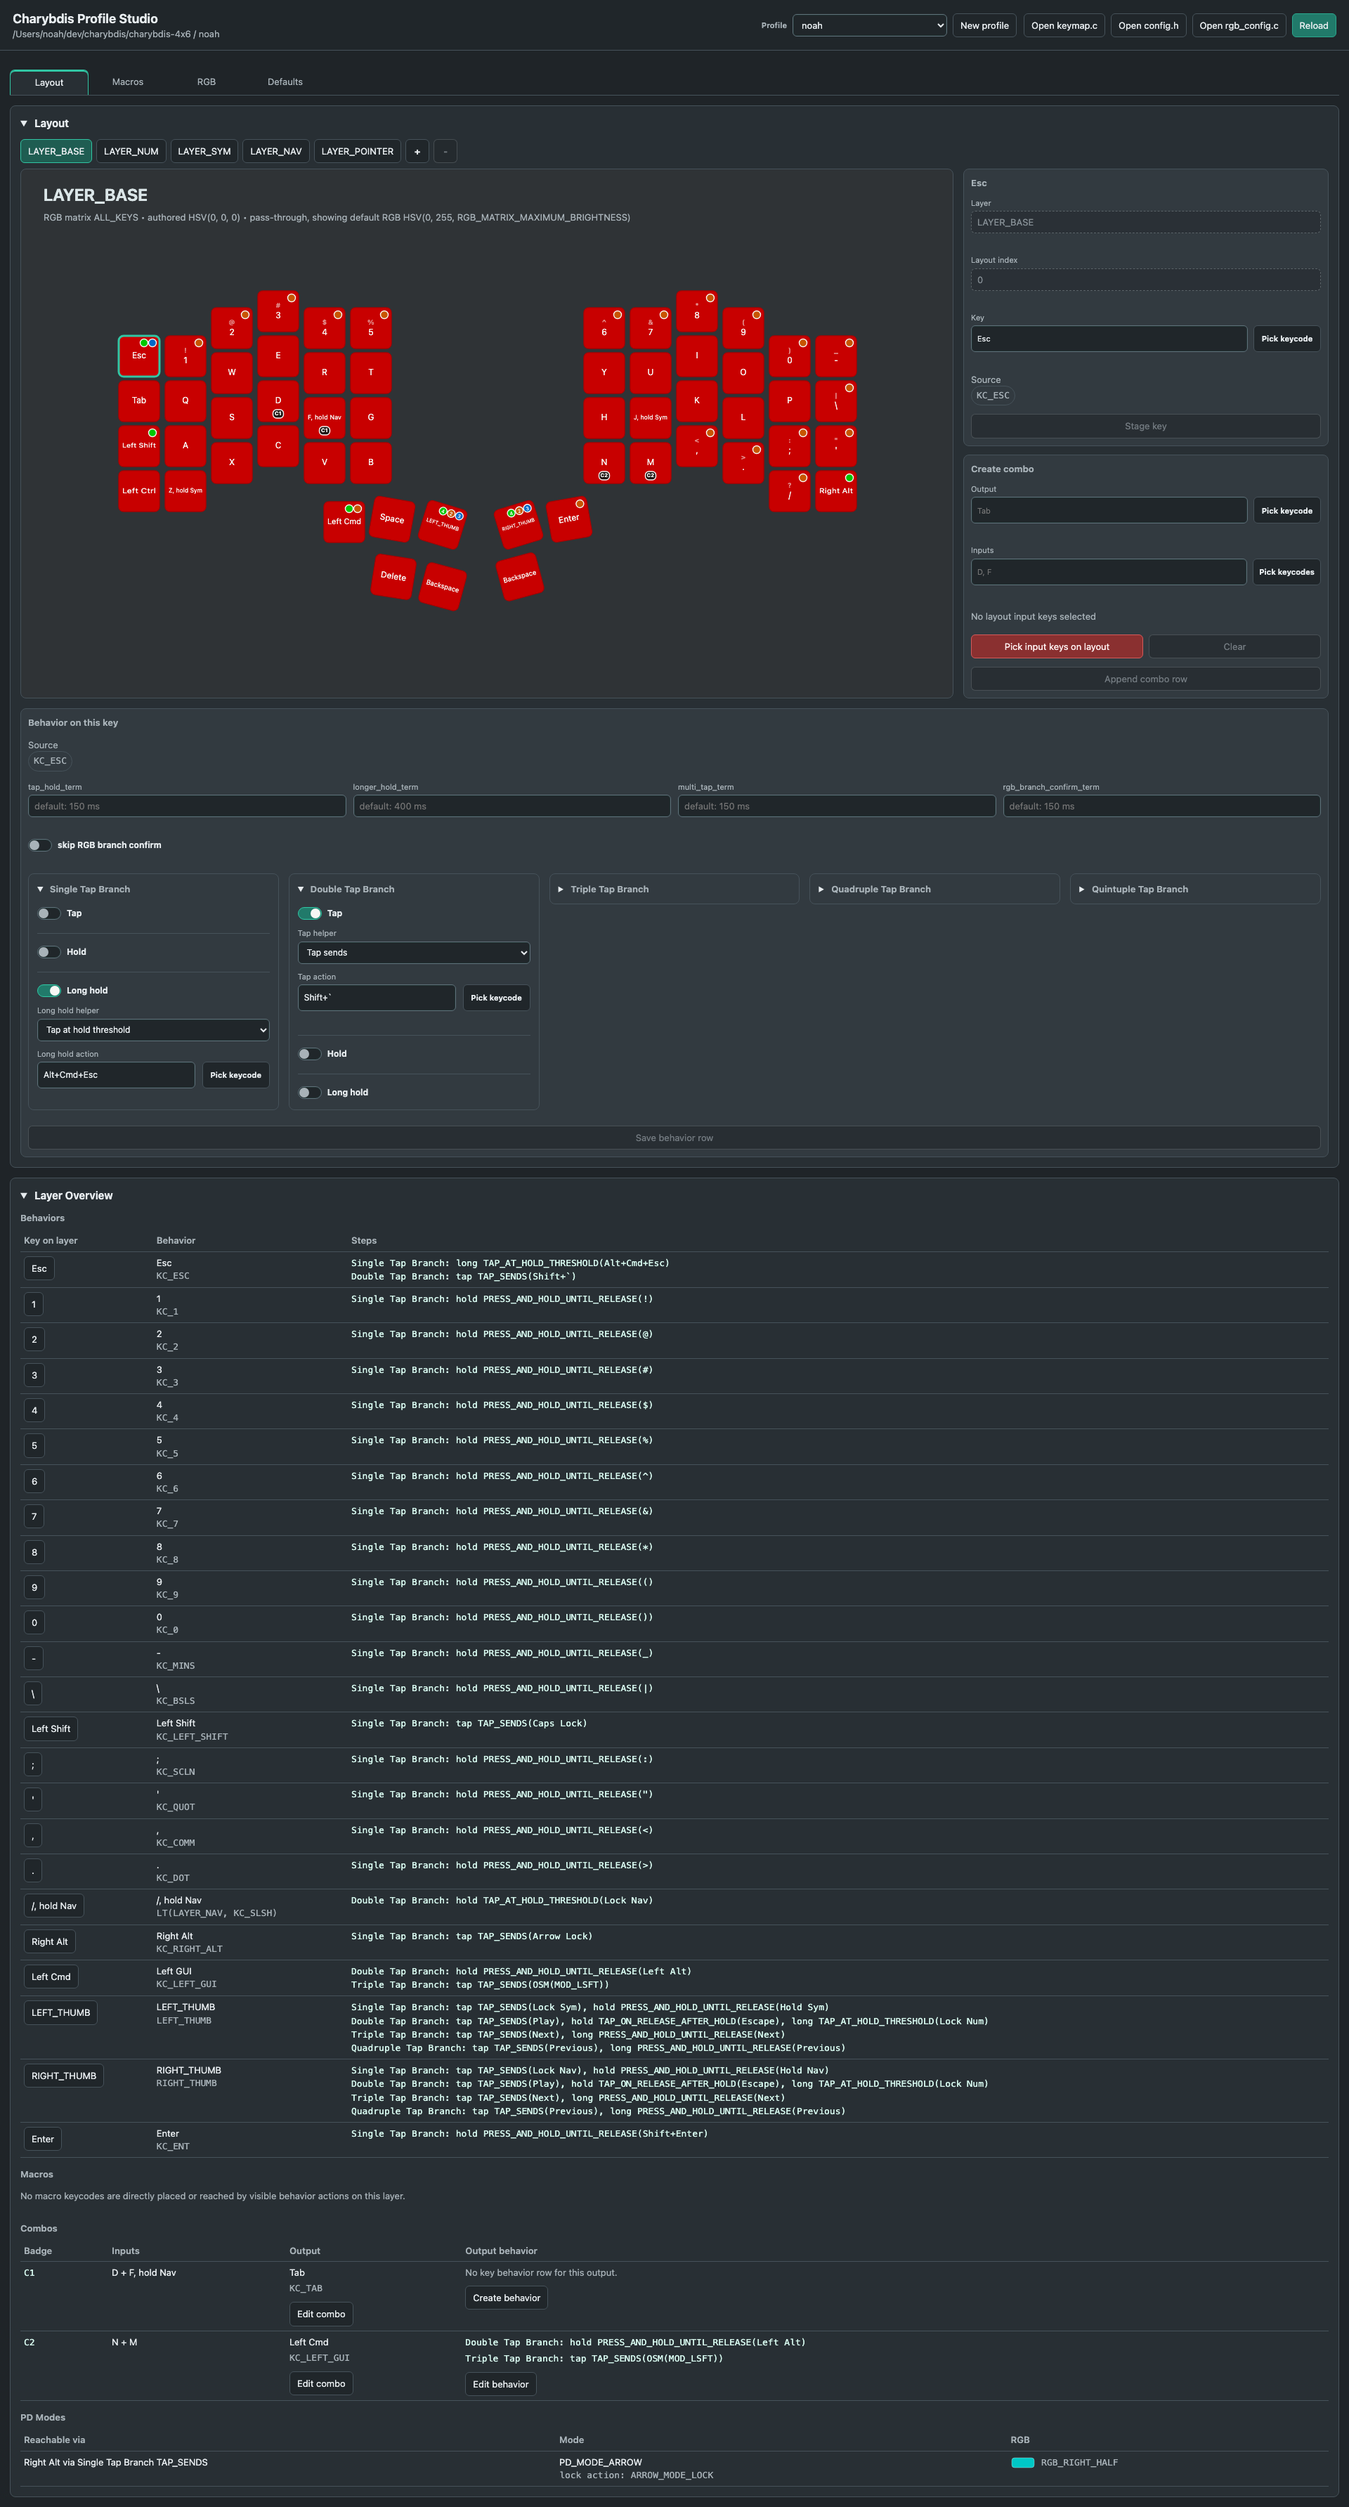
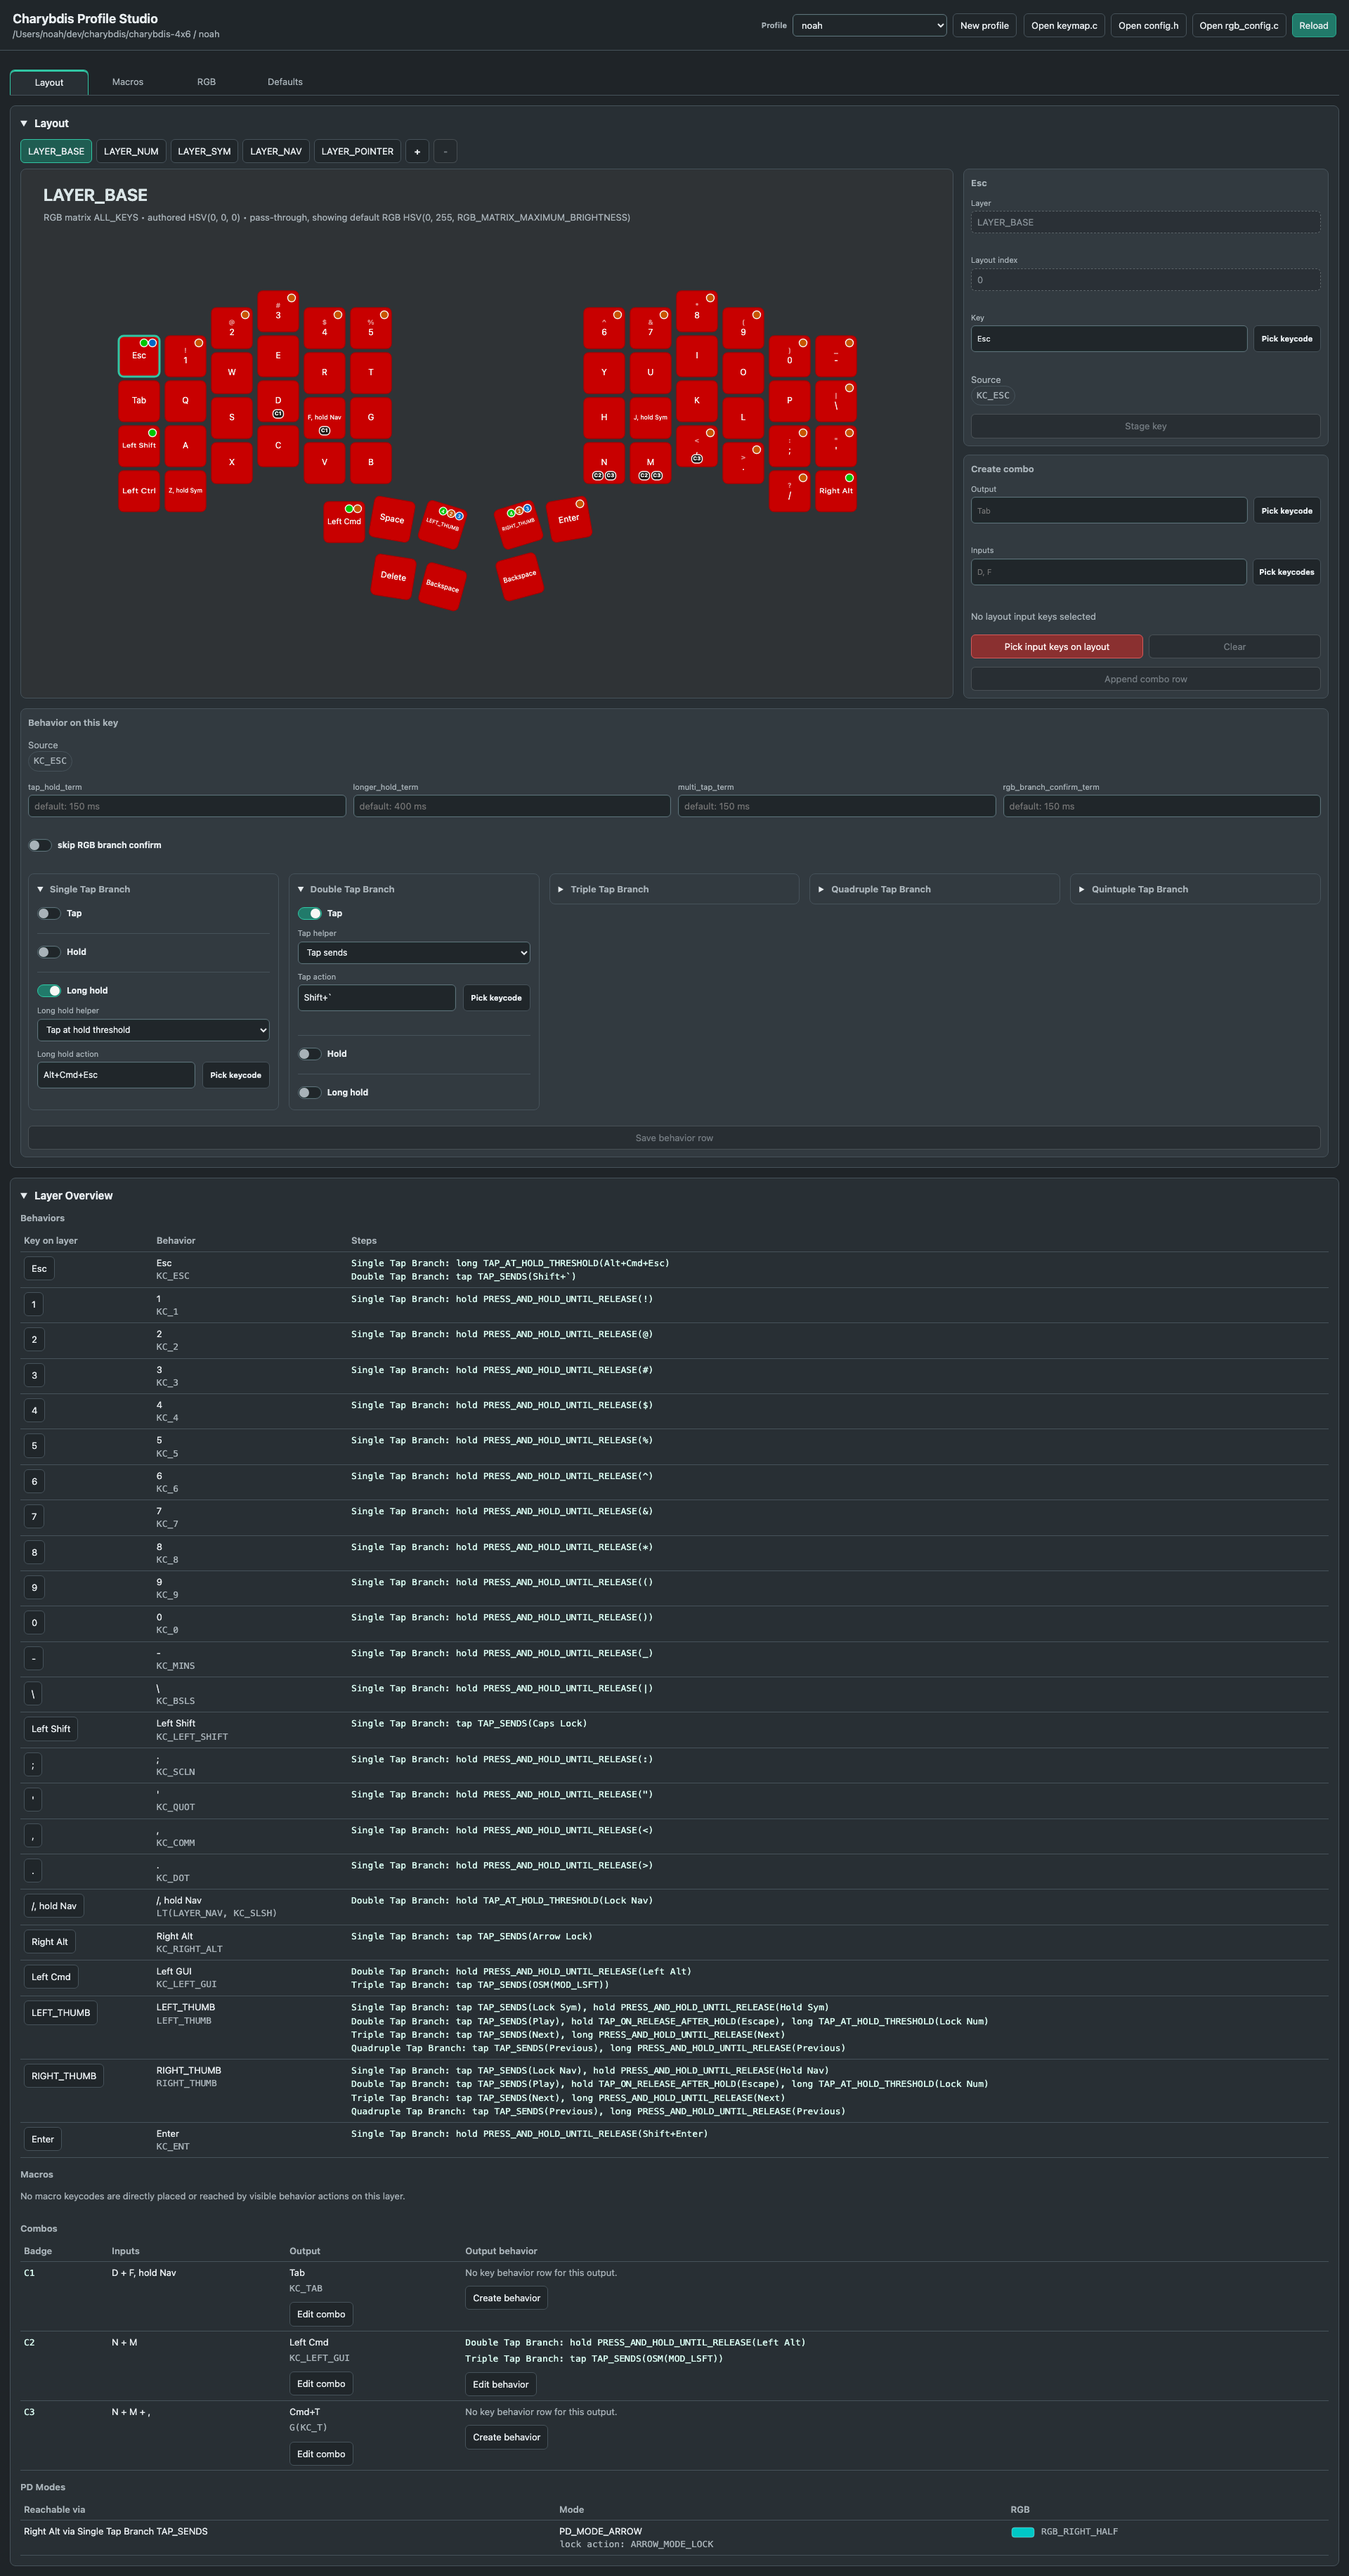
feat: add new combo C3 and update related documentation
- Introduced a new combo C3 on layers LAYER_BASE and LAYER_POINTER.
- Updated SVG files to reflect the addition of combo C3 in the visual representations.
- Modified keymap.c to include new combo definitions for C3.
- Enhanced the layout combo functionality in extension.js to differentiate between auto-matched and explicit combos.
- Added assertions in check-key-behavior-coverage.js to ensure new functionality is covered by tests.

diff --git a/tools/charybdis-profile-studio/extension.js b/tools/charybdis-profile-studio/extension.js
@@ -5511,6 +5511,7 @@ function getClientScript() {
     let layoutComboOutput = "";
     let layoutComboInputs = "";
     let activeLayoutComboOriginal = undefined;
+    let activeLayoutComboOriginalSource = "";
     let activeMacroKeycode = "";
     let macroDrafts = {};
     let macroRecording = false;
@@ -6228,7 +6229,7 @@ function getClientScript() {
             layoutComboSelection = [];
             layoutComboOutput = "";
             layoutComboInputs = "";
-            activeLayoutComboOriginal = undefined;
+            clearLayoutComboOriginal();
             syncRgbLayerOwnerToActiveLayer();
             lastLayoutKeyClick = { index: undefined, time: 0 };
             render();
@@ -6302,7 +6303,7 @@ function getClientScript() {
             layoutComboSelection = [];
             layoutComboOutput = "";
             layoutComboInputs = "";
-            activeLayoutComboOriginal = undefined;
+            clearLayoutComboOriginal();
             render();
             commitLocalHistory(before);
         } else if (action === "toggleRgbLed") {
@@ -6473,12 +6474,13 @@ function getClientScript() {
         } else if (action === "addLayoutCombo") {
             const payload = readComboBuilder(target);
             const original = activeLayoutComboOriginal;
+            const originalSource = activeLayoutComboOriginalSource;
             layoutComboPicking = false;
             layoutComboSelection = [];
             layoutComboOutput = "";
             layoutComboInputs = "";
-            activeLayoutComboOriginal = undefined;
-            post(original ? { type: "saveCombo", ...payload, originalOutput: original.output, originalInputs: original.inputs.join(", ") } : { type: "addCombo", ...payload });
+            clearLayoutComboOriginal();
+            post(layoutComboShouldSaveOriginal(original, originalSource, payload.inputs) ? { type: "saveCombo", ...payload, originalOutput: original.output, originalInputs: original.inputs.join(", ") } : { type: "addCombo", ...payload });
         } else if (action === "applyLayoutChanges") {
             const groups = pendingLayoutChangeGroups();
             const stagedEditLayer = groups.find((group) => pendingLayerAdd(group.layer));
@@ -6543,7 +6545,7 @@ function getClientScript() {
                 layoutComboSelection = [];
                 layoutComboOutput = "";
                 layoutComboInputs = "";
-                activeLayoutComboOriginal = undefined;
+                clearLayoutComboOriginal();
                 lastLayoutKeyClick = { index: undefined, time: 0 };
             }
             rgbBuilderColor = undefined;
@@ -6674,7 +6676,7 @@ function getClientScript() {
         const layer = currentLayer();
         if (!layer) {
             layoutComboSelection = [];
-            activeLayoutComboOriginal = undefined;
+            clearLayoutComboOriginal();
             return;
         }
         const valid = new Set(layer.positions.map((position) => position.layoutIndex));
@@ -6685,7 +6687,7 @@ function getClientScript() {
             return true;
         });
         if (activeLayoutComboOriginal && !model.combos.some((combo) => comboIdentityEquals(combo, activeLayoutComboOriginal))) {
-            activeLayoutComboOriginal = undefined;
+            clearLayoutComboOriginal();
         }
     }
 
@@ -6753,9 +6755,12 @@ function getClientScript() {
 
     function syncLayoutComboMatchFromInputs() {
         const combo = exactLayoutComboForInputs(layoutComboInputs);
-        if (combo && (!activeLayoutComboOriginal || comboIdentityEquals(combo, activeLayoutComboOriginal))) {
+        if (activeLayoutComboOriginalSource === "matched" && !comboIdentityEquals(combo, activeLayoutComboOriginal)) {
+            clearLayoutComboOriginal();
+        }
+        if (combo && !activeLayoutComboOriginal) {
             layoutComboOutput = combo.output;
-            activeLayoutComboOriginal = comboIdentity(combo);
+            setLayoutComboOriginal(comboIdentity(combo), "matched");
         }
     }
 
@@ -6779,6 +6784,27 @@ function getClientScript() {
         return output && inputs.length ? {output, inputs} : undefined;
     }
 
+    function normalizeLayoutComboOriginalSource(value, original) {
+        if (!original) return "";
+        return value === "matched" ? "matched" : "explicit";
+    }
+
+    function setLayoutComboOriginal(original, source) {
+        activeLayoutComboOriginal = original;
+        activeLayoutComboOriginalSource = normalizeLayoutComboOriginalSource(source, original);
+    }
+
+    function clearLayoutComboOriginal() {
+        activeLayoutComboOriginal = undefined;
+        activeLayoutComboOriginalSource = "";
+    }
+
+    function layoutComboShouldSaveOriginal(original, source, inputs) {
+        if (!original) return false;
+        if (source !== "matched") return true;
+        return comboInputSignature(splitLayoutArguments(inputs || "")) === comboInputSignature(original.inputs);
+    }
+
     function comboIdentityEquals(combo, identity) {
         return Boolean(combo && identity && keyExpressionsEquivalent(combo.output, identity.output) && comboInputSignature(combo.inputs) === comboInputSignature(identity.inputs));
     }
@@ -6791,7 +6817,7 @@ function getClientScript() {
         if (!combo) return;
         layoutComboOutput = combo.output || "";
         layoutComboInputs = (combo.inputs || []).join(", ");
-        activeLayoutComboOriginal = comboIdentity(combo);
+        setLayoutComboOriginal(comboIdentity(combo), "explicit");
         syncLayoutComboSelectionFromInputs();
         layoutComboPicking = false;
     }
@@ -7265,7 +7291,7 @@ function getClientScript() {
         layoutComboSelection = [];
         layoutComboOutput = "";
         layoutComboInputs = "";
-        activeLayoutComboOriginal = undefined;
+        clearLayoutComboOriginal();
         notice = "Staged " + name + ". Use Apply layer changes to write config.h, keymap.c, and rgb_config.c.";
         render();
         return true;
@@ -7298,7 +7324,7 @@ function getClientScript() {
         layoutComboSelection = [];
         layoutComboOutput = "";
         layoutComboInputs = "";
-        activeLayoutComboOriginal = undefined;
+        clearLayoutComboOriginal();
         render();
         return true;
     }
@@ -7580,7 +7606,7 @@ function getClientScript() {
         layoutComboSelection = [];
         layoutComboOutput = "";
         layoutComboInputs = "";
-        activeLayoutComboOriginal = undefined;
+        clearLayoutComboOriginal();
         activeMacroKeycode = "";
         macroDrafts = {};
         resetMacroRecorderState();
@@ -7738,6 +7764,7 @@ function getClientScript() {
             layoutComboOutput,
             layoutComboInputs,
             activeLayoutComboOriginal,
+            activeLayoutComboOriginalSource: activeLayoutComboOriginal ? activeLayoutComboOriginalSource : "",
             activeMacroKeycode,
             macroDrafts,
             macroRecordDelays,
@@ -7778,6 +7805,7 @@ function getClientScript() {
             layoutComboOutput = state.layoutComboOutput || "";
             layoutComboInputs = state.layoutComboInputs || "";
             activeLayoutComboOriginal = normalizeLayoutComboOriginal(state.activeLayoutComboOriginal);
+            activeLayoutComboOriginalSource = normalizeLayoutComboOriginalSource(state.activeLayoutComboOriginalSource, activeLayoutComboOriginal);
             activeMacroKeycode = state.activeMacroKeycode || "";
             macroDrafts = state.macroDrafts && typeof state.macroDrafts === "object" ? state.macroDrafts : {};
             macroRecordDelays = typeof state.macroRecordDelays === "boolean" ? state.macroRecordDelays : macroRecordDelays;

diff --git a/tools/charybdis-profile-studio/scripts/check-key-behavior-coverage.js b/tools/charybdis-profile-studio/scripts/check-key-behavior-coverage.js
@@ -63,6 +63,14 @@ const appendedCheck = `
         getClientScript().includes('type: "requestCreateProfile"'),
         "Profile Studio new-profile button must request extension-side input"
     );
+    assert(
+        getClientScript().includes("layoutComboShouldSaveOriginal(original, originalSource, payload.inputs)"),
+        "Profile Studio layout combo save path must distinguish auto-matched combos from explicit edits"
+    );
+    assert(
+        getClientScript().includes('activeLayoutComboOriginalSource === "matched"'),
+        "Profile Studio layout combo builder must clear stale auto-matched combo identity when inputs diverge"
+    );
 
     const model = await buildModel(${JSON.stringify(repoRoot)});
     const aliases = model.qmkKeycodeAliases || {};

diff --git a/keyboards/bastardkb/charybdis/4x6/keymaps/noah/keymap.c b/keyboards/bastardkb/charybdis/4x6/keymaps/noah/keymap.c
@@ -192,7 +192,9 @@ enum keymap_custom_keycodes {
     COMBO(KC_TAB, (KC_D, LT(LAYER_NAV, KC_F)))       \
     COMBO(CLICK_SPAM, (MS_BTN1, MS_BTN2))            \
     COMBO(KC_LEFT_GUI, (KC_N, KC_M))                 \
-    COMBO(KC_LEFT_GUI, (VOLUME_MODE, MS_BTN1))       \
+    COMBO(G(KC_T), (KC_N, KC_M, KC_COMM))            \
+    COMBO(G(KC_T), (VOLUME_MODE, MS_BTN1, MS_BTN2))                          \
+    COMBO(KC_LGUI, (MS_BTN1, VOLUME_MODE))                          \
     /* COMBO(MACRO_0, (KC_Q, KC_W)) */               \
     /* COMBO(VIA_MACRO_0, (KC_U, KC_I)) */           \
     /* COMBO(LOCK_LAYER(LAYER_NAV), (KC_J, KC_K)) */ \

diff --git a/docs/KEYMAP-OVERVIEW.md b/docs/KEYMAP-OVERVIEW.md
@@ -43,7 +43,7 @@ Timing legend for the layer-local behavior tables:
 - RGB matrix render mode: `ALL_KEYS`
 - Authored layer color: `HSV(0, 0, 0)`
 - Preview color: <img alt="LAYER_BASE preview color" src="media/profile-introspection/profile-color-swatch-ff0000.svg" width="96" height="28" />
-- Combo badges on this layer: `C1`, `C2`
+- Combo badges on this layer: `C1`, `C2`, `C3`
 
 ![LAYER_BASE](media/profile-introspection/profile-layer-LAYER_BASE.svg)
 
@@ -96,6 +96,7 @@ Timing legend for the layer-local behavior tables:
 | --- | --- | --- |
 | `C1` | `D` + `LT[NAV]/F` | `TAB` (`KC_TAB`) |
 | `C2` | `N` + `M` | `LGUI` (`KC_LEFT_GUI`) |
+| `C3` | `N` + `M` + `,` | `G(T)` (`G(KC_T)`) |
 
 ### `LAYER_NUM`
 
@@ -191,7 +192,7 @@ No authored combos resolve entirely from keys on this layer.
 - RGB matrix render mode: `KEYS_MAPPED_ON_THIS_LAYER_ONLY`
 - Authored layer color: `HSV(0, 0, 150)`
 - Preview color: <img alt="LAYER_POINTER preview color" src="media/profile-introspection/profile-color-swatch-ffffff.svg" width="96" height="28" />
-- Combo badges on this layer: `C1`, `C2`
+- Combo badges on this layer: `C1`, `C2`, `C3`
 
 ![LAYER_POINTER](media/profile-introspection/profile-layer-LAYER_POINTER.svg)
 
@@ -222,7 +223,8 @@ No authored combos resolve entirely from keys on this layer.
 | Combo | Inputs On This Layer | Output |
 | --- | --- | --- |
 | `C1` | `MS_BTN1` + `MS_BTN2` | `CLICK_SPAM` |
-| `C2` | `VOLUME` + `MS_BTN1` | `LGUI` (`KC_LEFT_GUI`) |
+| `C2` | `VOLUME` + `MS_BTN1` + `MS_BTN2` | `G(T)` (`G(KC_T)`) |
+| `C3` | `MS_BTN1` + `VOLUME` | `LGUI` (`KC_LGUI`) |
 
 ## PD Mode Colors
 
@@ -420,7 +422,7 @@ Reusable groups define physical LED sets once near the LED map in `rgb_config.c`
 | `layout_key_count` | `56` |
 | `key_behavior_count` | `33` |
 | `key_behavior_step_count` | `44` |
-| `combo_count` | `4` |
+| `combo_count` | `6` |
 | `via_macro_count` | `64` |
 | `via_macro_non_empty_count` | `10` |
 | `hardcoded_macro_count` | `16` |
